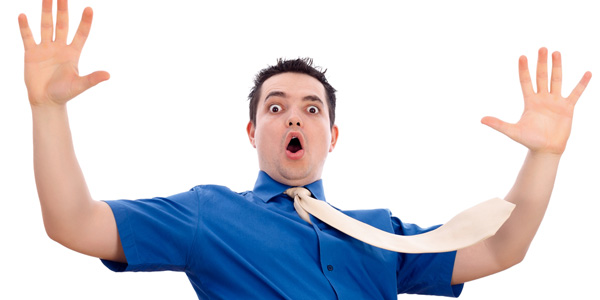
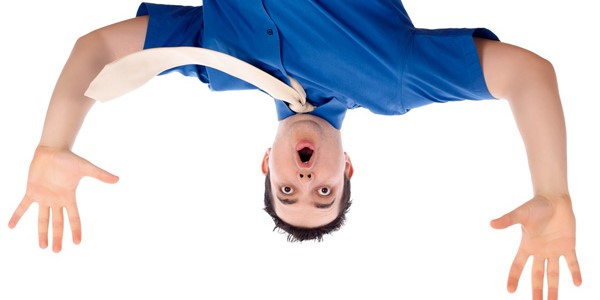
Add files via upload

diff --git a/faceit server/Main server.py b/faceit server/Main server.py
@@ -12,6 +12,7 @@ IP = "0.0.0.0"
 PORT = 1234
 LISTEN_NUM = 5
 open_client_sockets = []
+open_sockets_names = {}
 messages_to_send = []
 
 
@@ -58,49 +59,76 @@ class Server():
         log_dict = json.loads(l_dict)
         user = login.Login(log_dict['username'], log_dict['password'])
         res = user.check_password()
-        return res
+        return res, log_dict['username']
 
     def signup(self, data):
         regex = r"SignUp:(.*)"
         match = re.search(regex, data)
         s_dict = match.group(1)
         sign_dict = json.loads(s_dict)
-        user = signup.SignUp(sign_dict['ip_address'], sign_dict['username'],
+        user = signup.SignUp(sign_dict['username'],
                              sign_dict['password'], sign_dict['email'])
         res = user.put_in_database()
-        return res
+        return res, sign_dict['username']
 
-    def add_to_go(self, name, emotions):
-        self.go_users.insert(name, emotions)
+    def add_to_go(self, name, my_emotion, wanted_emotion):
+        self.go_users.insert(name, my_emotion, wanted_emotion)
 
     def thread_go(self):
         while True:
-
-
+            data = self.go_users.return_data()
+            data_dict = json.loads(data)
+            for key, value in data_dict.iteritems():
+                check = False
+                for key2, value2 in data_dict.iteritems():
+                    if key != key2 and value[::-1] == value2:
+                        del data_dict[key]
+                        del data_dict[key2]
+                        self.go_users.delete_row(key)
+                        self.go_users.delete_row(key2)
+                        check = True
+                        for socket_user, name in open_sockets_names.iteritems():
+                            if name == key:
+                                socket_user.send(key2)
+                            elif name == key2:
+                                socket_user.send(key)
+                        break
+                if check:
+                    break
 
     def check_if_client(self):
         while True:
             rlist, wlist, xlist = select.select([self.server_socket] + open_client_sockets,  open_client_sockets, [])
             for current_socket in rlist:
-                print current_socket
                 if current_socket is self.server_socket:
                     print "new client!"
                     (new_socket, address) = self.server_socket.accept()
                     open_client_sockets.append(new_socket)
                 else:
                     try:
-                        data = current_socket.recv(1024)
+                        data = current_socket.recv(4096)
                     except socket.error:
                         print "Connection with client closed."
                         open_client_sockets.remove(current_socket)
+                        try:
+                            del open_sockets_names[current_socket]
+                        except Exception as e:
+                            print e.args
                     print data
                     if data == "":
                         open_client_sockets.remove(current_socket)
-                        print "Connection with client closed."
-                    elif "SignUp:" in data:
                         try:
-                            res = self.signup(data)
+                            del open_sockets_names[current_socket]
+                        except Exception as e:
+                            print e.args
+                        print "Connection with client closed."
+                    elif "SignUp:" in data:  # 'SignUp: {"username": "tom", "password":
+                    # "hashed_pass", "email": "example@gmail.com"}'
+                        try:
+                            res, username = self.signup(data)
                             if res:
+                                open_sockets_names[current_socket] = username  # update name of user -
+                                # need to check if it is working
                                 print "added successfully"
                                 current_socket.send("True")
                             else:
@@ -109,10 +137,11 @@ class Server():
                         except Exception as e:
                             print e.args
                             current_socket.send("False")
-                    elif "Login" in data:
+                    elif "Login" in data:  # 'Login: {"username": "tom", "password": "hashed_pass"}'
                         try:
-                            res = self.login(data)
+                            res, username = self.login(data)
                             if res:
+                                open_sockets_names[current_socket] = username
                                 print "correct password"
                                 current_socket.send("True")
                             else:
@@ -121,7 +150,7 @@ class Server():
                         except Exception as e:
                             print e.args
                             current_socket.send("False")
-                    elif "Image_face" in data:
+                    elif "Image_face" in data:  # 'Image_face: {"data": "0010101010101001010100101"}'
                         regex = r"Image_face:(.*)"
                         match = re.search(regex, data)
                         f_dict = match.group(1)
@@ -135,19 +164,19 @@ class Server():
                             print "successful face recognition!"
                             print "The emotion is: " + res
                         current_socket.send(res)
-                    elif "GO" in data:
-                        regex = r"GO:(.*)"
+                    elif "Go" in data:  # 'Go: {"tom": ["my_emotion", "the_emotion_i_want"]}'
+                        regex = r"Go:(.*)"
                         match = re.search(regex, data)
                         this_data = match.group(1)
                         emotions_dict = json.loads(this_data)
+                        print emotions_dict
                         user_name = emotions_dict.items()[0][0]
                         emotions = emotions_dict.items()[0][1]
-                        emotions_str = repr(emotions)
-                        self.add_to_go(user_name, emotions_str)
+                        self.add_to_go(user_name, emotions[0], emotions[1])
                     else:
                         pass
 
-if __name__ == '__main__':
+if __name__ == "__main__":
     a = Server("0.0.0.0", 1234, 5)
     a.server_connection()
     a.check_if_client()

diff --git a/faceit server/database_go.py b/faceit server/database_go.py
@@ -19,11 +19,11 @@ class Go:
             return False  # this name was already taken
 
     def return_data(self):
-        table = ""
+        table = "{"
         for row in self.cursor.execute("SELECT * FROM Go ORDER BY name"):
-            table += str(row)
+            table += '\"' + row[0] + '\"' + ": [" + '\"' + row[1] + '\"' + ", " + '\"' + row[2] + "\"], "
         self.conn.commit()
-        return table
+        return table[:-2] + "}"
 
     def return_want(self, name):
         cur = self.cursor.execute("SELECT i_want FROM Go WHERE name=?", (name,))
@@ -31,14 +31,30 @@ class Go:
         f = fetch[0]
         return f[0]
 
+    def delete_row(self, name):
+        self.cursor.execute("DELETE FROM Go WHERE name=?", (name,))
 
-if __name__ == "__main__":
-    a = Go()
-    y_emo = 'sad'
-    i_want = 'happy'
-    b = a.insert("dani", y_emo, i_want)
-    print b
-    data = a.return_data()
-    print data
-    d = json.load(data)
-    print d
+
+
+# if __name__ == "__main__":
+#     a = Go()
+#     y_emo = 'sad'
+#     i_want = 'sad'
+#     b = a.insert("Erez", y_emo, i_want)
+#     print b
+#     data = a.return_data()
+#     print(data)
+#     data_dict = json.loads(data)
+#     a = False
+#     print type(data_dict)
+#     for z in "ab":
+#         for key, value in data_dict.iteritems():
+#             for key2, value2 in data_dict.iteritems():
+#                 if key != key2 and value[::-1] == value2:
+#                     print("True: " + key + " and " + key2)
+#                     del data_dict[key]
+#                     del data_dict[key2]
+#                     a = True
+#                     break
+#             if a:
+#                 break

diff --git a/faceit server/client_test.py b/faceit server/client_test.py
@@ -1,0 +1,42 @@
+import socket
+import database_go
+import json
+
+
+def go():
+    a = database_go.Go()
+    while True:
+            data_r = a.return_data()
+            print data_r
+            data_dict = json.loads(data)
+            for key, value in data_dict.iteritems():
+                check = False
+                for key2, value2 in data_dict.iteritems():
+                    if key != key2 and value[::-1] == value2:
+                        del data_dict[key]
+                        del data_dict[key2]
+                        a.delete_row(key)
+                        a.delete_row(key2)
+                        check = True
+                        for socket_user, name in open_sockets_names.iteritems():
+                            if name == key:
+                                socket_user.send(key2)
+                            elif name == key2:
+                                socket_user.send(key)
+                        break
+                if check:
+                    break
+
+
+s = socket.socket()
+s.connect(("127.0.0.1", 1234))
+
+s.send('Login: {"username": "tom2", "password": "hashed_pass"}')
+data = s.recv(1024)
+print data
+
+s.send('Go: {"tom": ["happy", "sad"]}')
+s.send('Go: {"tom2": ["sad", "happy"]}')
+data = s.recv(1024)
+print data
+

diff --git a/faceit server/face_recognition.py b/faceit server/face_recognition.py
@@ -1,5 +1,6 @@
 import requests
 import operator
+from PIL import Image
 
 class Face():
     def __init__(self, data_face):
@@ -26,10 +27,13 @@ class Face():
             sorted_face = sorted(t_face.items(), key=operator.itemgetter(1), reverse=True)
             return sorted_face[0][0]
 
-# if __name__ == "__main__":
-#     file_data = open("image.jpg", "rb")
-#     face_data = file_data.read()
-#     file_data.close()
-#     face = Face(face_data)
-#     res = face.recognition()
-#     print res
+if __name__ == "__main__":
+    img = Image.open("image.jpg")
+    img2 = img.rotate(180)  # rotate
+    img2.save("img2.jpg")
+    file_data = open("img2.jpg", "rb")
+    face_data = file_data.read()
+    file_data.close()
+    face = Face(face_data)
+    res = face.recognition()
+    print res
